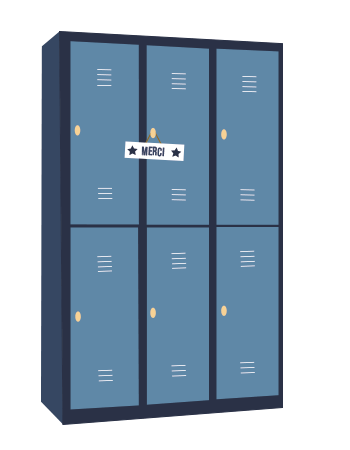
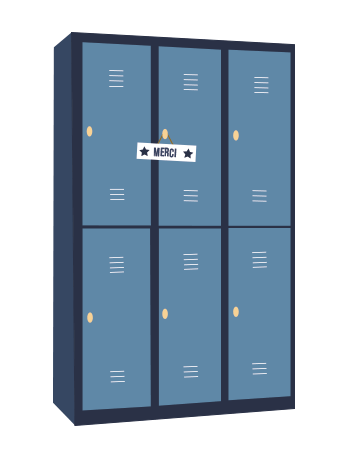
ajout vestiaire aux slides & matchfinal json

diff --git a/le_journal_des_entreprises/html/outro.html b/le_journal_des_entreprises/html/outro.html
@@ -1,10 +1,16 @@
-<div id="over">
-    <span id="casierl"></span>
-    <a href="/images/porte-manteau vide.png" rel="shadowbox;"><img src="/images/casier 1 vide.png"></a>
-    
-    <span class="Centerer"></span>
-    <img class="Centered" src="/images/porte-manteau vide.png" />
-    
-    <span id="casierr"></span>
-    <a href="/images/porte-manteau vide.png" rel="shadowbox;"><img src="/images/casier 2 vide.png"></a>
+<div id="slideoutro" class="page">
+    <div id="titleoutro">
+        <img src="/images/TitleVestiaire.png">
+    </div>
+    <div id="pics">
+        <div id="casierl" class="Centerer Centered">
+            <a href="/images/PopMerci.png" rel="shadowbox;width=540;height=371"><img src="/images/CasierLeft.png"></a>
+        </div>
+        <div id="coatrack" class="Centerer Centered">
+            <a href="/images/PopEquipe.png" rel="shadowbox;width=540;height=371"><img src="/images/CoatRack.png"></a>
+        </div>
+        <div id="casierr" class="Centerer Centered">
+            <a href="/images/PopCoulisses.png" rel="shadowbox;width=540;height=371"><img src="/images/CasierRight.png"></a>
+        </div>
+    </div>
 </div>

diff --git a/le_journal_des_entreprises/html/css/styleoutro.css b/le_journal_des_entreprises/html/css/styleoutro.css
@@ -2,7 +2,7 @@
  * Outro Panel *
  ***************/
  
-#over
+#slideoutro
 {
     position:absolute;
     width:100%;
@@ -21,15 +21,36 @@
     display: inline-block;
     vertical-align: middle;
 }
+.page
+{
+ width: 100%;
+ height: 100%;
+ min-height:100%;
+ display: block; 
+ position: relative;
+}
+
+#titleoutro
+{
+    text-align:center;
+}
+
+#pics
+{
+    display:inline-block;
+    vertical-align: middle;
+}
 
 #casierl
 {
-    vertical-align:middle;
     position: relative;
 }
 
 #casierr
 {
-    vertical-align:middle;
     position: relative;
+}
+
+#coatrack
+{
 }

diff --git a/le_journal_des_entreprises/html/layout.html b/le_journal_des_entreprises/html/layout.html
@@ -19,7 +19,7 @@
     <!--<div class="container-fluid">-->
         {% include "./intro.html" %}
         {% include "./dataviz1.html" %}
-        {% include "./outro.html" %}
+        
         
         <div id="comparison" class="page">
         <iframe
@@ -30,6 +30,8 @@
         frameborder="0" >
         </iframe>
         </div>
+
+        {% include "./outro.html" %}
 
     <!--</div>-->
     <script type="text/javascript" src="/jquery/dist/jquery.min.js"></script>
